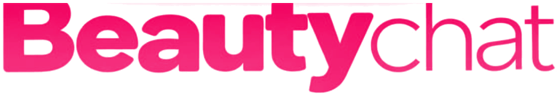
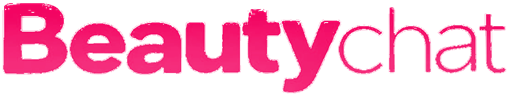
Metricas al final de Envio (sin pestana), avisos como campanita con badge en la barra superior, y letras Beautychat sin recorte

diff --git a/ui.js b/ui.js
@@ -82,7 +82,13 @@
   root.id = 'wam-root';
   root.innerHTML = `
   <div id="wam-panel" hidden>
-    <div class="wam-head"><img id="wam-logo" alt=""><div class="wam-title" title="Envíos masivos"><img id="wam-word" alt="Beautychat"></div><button id="wam-about" class="wam-aboutbtn" title="Estado y licencia">Acerca</button><button id="wam-close" title="Cerrar">×</button></div>
+    <div class="wam-head"><img id="wam-logo" alt=""><div class="wam-title" title="Envíos masivos"><img id="wam-word" alt="Beautychat"></div><button id="wam-bell" class="wam-bell" title="Avisos"><svg viewBox="0 0 24 24" width="22" height="22" fill="none" stroke="currentColor" stroke-width="2" stroke-linecap="round" stroke-linejoin="round" aria-hidden="true"><path d="M6 8a6 6 0 0 1 12 0c0 7 3 9 3 9H3s3-2 3-9"/><path d="M10.3 21a1.94 1.94 0 0 0 3.4 0"/></svg><b id="wam-avibadge" class="wam-badge" hidden></b></button><button id="wam-about" class="wam-aboutbtn" title="Estado y licencia">Acerca</button><button id="wam-close" title="Cerrar">×</button></div>
+    <div id="wam-avibox" hidden>
+      <div class="wam-avihead"><b>Avisos</b></div>
+      <div class="wam-sum"><span id="wam-avinfo">Sin avisos.</span>
+        <span><a id="wam-avrefresh">Actualizar</a> · <a id="wam-avreadall">Marcar todos como leídos</a></span></div>
+      <div id="wam-avlist"></div>
+    </div>
     <div id="wam-aboutbox" hidden>
       <div class="wam-aboutrow"><span>Conexión</span><span id="wam-conn">…</span></div>
       <div class="wam-aboutrow"><span>Licencia</span><span id="wam-licstat"></span></div>
@@ -109,8 +115,6 @@
     <div class="wam-tabbar wam-seg">
       <button data-tab="env" class="on">Envío</button>
       <button data-tab="msg">Mensajes</button>
-      <button data-tab="met">Métricas</button>
-      <button data-tab="avi">Avisos<b id="wam-avibadge" class="wam-badge" hidden></b></button>
       <button data-tab="ia">IA</button>
     </div>
 
@@ -176,32 +180,8 @@
         <div class="wam-bar"><div id="wam-barfill"></div></div>
         <div id="wam-log"></div>
       </div>
-    </div>
 
-    <div class="wam-body" data-body="msg" hidden>
-      <h4>Mensajes</h4>
-      <div class="wam-card">
-        <div id="wam-msgs"></div>
-        <button id="wam-addmsg" class="wam-btn alt">+ Agregar otro mensaje</button>
-        <div class="wam-hint">Variables disponibles (toca una para insertarla):</div>
-        <div id="wam-vars" class="wam-vars"></div>
-        <button id="wam-examples" class="wam-btn alt">Cargar mensajes de ejemplo</button>
-        <p class="wam-hint">Crea todos los mensajes que quieras: cada envío elige uno al azar. <code>{Hola|Buenas}</code> = variante al azar.</p>
-        <div class="wam-prev" id="wam-prev"></div>
-      </div>
-    </div>
-
-    <div class="wam-body" data-body="avi" hidden>
-      <h4>Avisos</h4>
-      <div class="wam-card">
-        <div class="wam-sum"><span id="wam-avinfo">Sin avisos.</span>
-          <span><a id="wam-avrefresh">Actualizar</a> · <a id="wam-avreadall">Marcar todos como leídos</a></span></div>
-        <div id="wam-avlist"></div>
-      </div>
-    </div>
-
-    <div class="wam-body" data-body="met" hidden>
-      <h4>Resumen</h4>
+      <h4>Métricas · Resumen</h4>
       <div class="wam-card">
         <div class="wam-kpis">
           <div><b id="k-today">0</b><span>Enviados hoy</span></div>
@@ -220,6 +200,19 @@
       <div class="wam-card">
         <div id="wam-hist" class="wam-list small"></div>
         <button id="wam-clearmet" class="wam-btn alt danger">Borrar métricas</button>
+      </div>
+    </div>
+
+    <div class="wam-body" data-body="msg" hidden>
+      <h4>Mensajes</h4>
+      <div class="wam-card">
+        <div id="wam-msgs"></div>
+        <button id="wam-addmsg" class="wam-btn alt">+ Agregar otro mensaje</button>
+        <div class="wam-hint">Variables disponibles (toca una para insertarla):</div>
+        <div id="wam-vars" class="wam-vars"></div>
+        <button id="wam-examples" class="wam-btn alt">Cargar mensajes de ejemplo</button>
+        <p class="wam-hint">Crea todos los mensajes que quieras: cada envío elige uno al azar. <code>{Hola|Buenas}</code> = variante al azar.</p>
+        <div class="wam-prev" id="wam-prev"></div>
       </div>
     </div>
 
@@ -310,14 +303,19 @@
   $('#wam-word').src = chrome.runtime.getURL('icons/wordmark.png');
   $('#wam-close').onclick = () => (panel.hidden = true);
   $('#wam-aboutver').textContent = chrome.runtime.getManifest().version;
-  $('#wam-about').onclick = () => { const b = $('#wam-aboutbox'); b.hidden = !b.hidden; };
-  panel.addEventListener('click', (e) => { if (!e.target.closest('#wam-aboutbox, #wam-about')) $('#wam-aboutbox').hidden = true; });
+  // un solo desplegable abierto a la vez: avisos (campanita) o "Acerca"
+  const abrirAvisos = () => { $('#wam-aboutbox').hidden = true; $('#wam-avibox').hidden = false; renderNotifs(); fetchNotifs(true); };
+  $('#wam-about').onclick = () => { const b = $('#wam-aboutbox'); $('#wam-avibox').hidden = true; b.hidden = !b.hidden; };
+  $('#wam-bell').onclick = () => { if ($('#wam-avibox').hidden) abrirAvisos(); else $('#wam-avibox').hidden = true; };
+  panel.addEventListener('click', (e) => {
+    if (!e.target.closest('#wam-aboutbox, #wam-about')) $('#wam-aboutbox').hidden = true;
+    if (!e.target.closest('#wam-avibox, #wam-bell, #wam-avbar')) $('#wam-avibox').hidden = true;
+  });
   panel.querySelectorAll('.wam-tabbar button').forEach((b) => {
     b.onclick = () => {
       panel.querySelectorAll('.wam-tabbar button').forEach((x) => x.classList.toggle('on', x === b));
       panel.querySelectorAll('[data-body]').forEach((d) => (d.hidden = d.dataset.body !== b.dataset.tab));
-      if (b.dataset.tab === 'met') renderMetrics();
-      if (b.dataset.tab === 'avi') { renderNotifs(); fetchNotifs(true); }
+      if (b.dataset.tab === 'env') renderMetrics();
       if (b.dataset.tab === 'ia') { renderIaLabels(); renderIaReLabels(); renderIaSug(); renderIaHuman(); }
       $('#wam-foot-bulk').hidden = !(b.dataset.tab === 'env' || b.dataset.tab === 'msg'); // botones del envío masivo
       $('#wam-foot-ia').hidden = b.dataset.tab !== 'ia'; // botones de la IA
@@ -714,7 +712,7 @@
     sendLog.push({ t: Date.now(), ...e });
     if (sendLog.length > MAX_LOG) sendLog = sendLog.slice(-MAX_LOG);
     chrome.storage.local.set({ wamLog: sendLog });
-    if (!$('[data-body="met"]').hidden) renderMetrics();
+    if (!$('[data-body="env"]').hidden) renderMetrics();
   };
   const dayKey = (t) => { const d = new Date(t); return d.getFullYear() * 10000 + (d.getMonth() + 1) * 100 + d.getDate(); };
   const renderMetrics = () => {
@@ -818,7 +816,7 @@
     $('#wam-start').disabled = !lic.valid || !!(cfg.ia && cfg.ia.on);
   };
   $('#wam-licstat').onclick = () => { gateOpen = true; renderLic(); };
-  $('#wam-changelic').onclick = () => { $('#wam-aboutbox').hidden = true; gateOpen = true; renderLic(); };
+  $('#wam-changelic').onclick = () => { $('#wam-aboutbox').hidden = true; $('#wam-avibox').hidden = true; gateOpen = true; renderLic(); };
   $('#wam-gate-close').onclick = () => { gateOpen = false; renderLic(); };
 
   const fetchLicense = (token, numero) =>
@@ -882,6 +880,7 @@
   let notifs = [];
   let readIds = new Set();
   let lastNotifFetch = 0;
+  let avPrevUnread = -1; // para animar la campana solo cuando llega un aviso nuevo (no al cargar)
   const NOTIF_EVERY_MS = 60 * 60 * 1000; // los avisos se actualizan cada hora (además al abrir la pestaña Avisos o pulsar Actualizar)
   const TIPO_LABEL = { info: 'Información', aviso: 'Aviso', importante: 'Importante' };
   const saveRead = () => chrome.storage.local.set({ wamRead: [...readIds].slice(-500) });
@@ -897,6 +896,12 @@
     const badge = $('#wam-avibadge');
     badge.hidden = !un.length;
     badge.textContent = un.length;
+    const bell = $('#wam-bell');
+    if (bell && bell.classList && avPrevUnread >= 0 && un.length > avPrevUnread) { // llegó un aviso nuevo: la campana se mueve un momento
+      bell.classList.add('nuevo');
+      setTimeout(() => bell.classList.remove('nuevo'), 2500);
+    }
+    avPrevUnread = un.length;
     const bar = $('#wam-avbar');
     bar.hidden = !un.length;
     bar.className = 'wam-avbar' + (urgent ? ' urgent' : '');
@@ -904,7 +909,7 @@
     if (un.length) {
       const a = document.createElement('a');
       a.textContent = 'Tienes ' + un.length + (un.length === 1 ? ' aviso sin leer' : ' avisos sin leer') + ' — Ver';
-      a.onclick = () => panel.querySelector('.wam-tabbar button[data-tab="avi"]').click();
+      a.onclick = () => abrirAvisos();
       bar.appendChild(a);
     }
     try { chrome.runtime.sendMessage({ type: 'wam-badge', count: un.length, urgent }); } catch {}
@@ -1718,7 +1723,7 @@
     iaEngaged = wamIa.engaged || {}; iaSentT = wamIa.sentT || {}; iaPause = wamIa.pause || {}; iaReSent = wamIa.reSent || {};
     renderIaSug(); renderIaHuman();
   });
-  chrome.storage.local.get('wamLog').then(({ wamLog }) => { if (Array.isArray(wamLog)) sendLog = wamLog; });
+  chrome.storage.local.get('wamLog').then(({ wamLog }) => { if (Array.isArray(wamLog)) sendLog = wamLog; renderMetrics(); });
   chrome.storage.local.get('wamCfg').then(({ wamCfg }) => {
     cfg = { ...DEFAULTS, ...(wamCfg || {}) };
     if (wamCfg && wamCfg.message && !wamCfg.messages) cfg.messages = [wamCfg.message]; // versión anterior

diff --git a/ui.css b/ui.css
@@ -154,3 +154,12 @@ details label{display:flex;justify-content:space-between;align-items:center;marg
 
 .wam-span{grid-column:1/3;margin-bottom:8px}
 #wam-foot-bulk .wam-notice,#wam-foot-ia .wam-notice{font-size:12px}
+
+/* campanita de avisos en la barra superior */
+.wam-bell{position:relative;display:flex;align-items:center;justify-content:center;border:0;background:none;color:var(--sub);cursor:pointer;padding:4px;margin-right:2px}
+.wam-bell:hover{color:var(--text)}
+.wam-bell .wam-badge{position:absolute;top:-5px;right:-6px;margin:0;min-width:16px;padding:0 4px;line-height:16px;font-size:10px;background:var(--err)}
+#wam-avibox{position:absolute;top:62px;right:12px;z-index:6;width:340px;max-width:calc(100% - 24px);max-height:70vh;overflow:auto;padding:12px 14px;border-radius:12px;background:var(--card);color:var(--text);box-shadow:0 6px 24px #0006;border:1px solid var(--line)}
+.wam-avihead{font-size:15px;margin-bottom:6px}
+@keyframes wam-ring{0%,100%{transform:rotate(0)}15%{transform:rotate(14deg)}30%{transform:rotate(-12deg)}45%{transform:rotate(9deg)}60%{transform:rotate(-6deg)}75%{transform:rotate(3deg)}}
+.wam-bell.nuevo svg{animation:wam-ring .9s ease-in-out 2;transform-origin:50% 10%}
